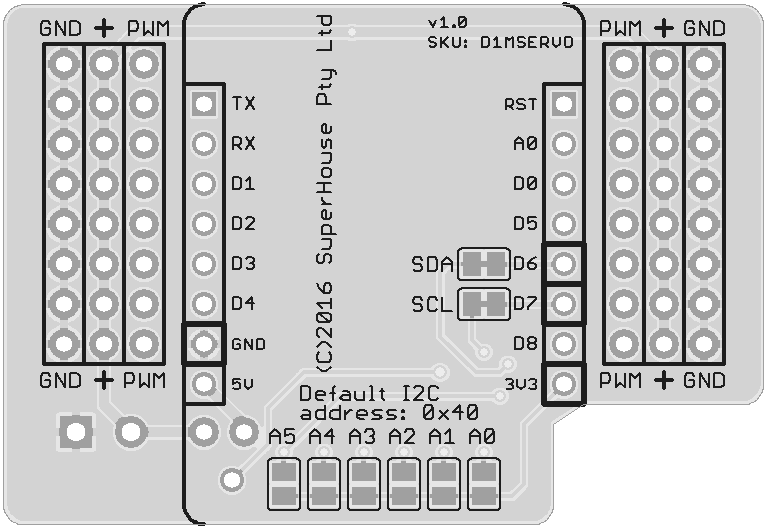
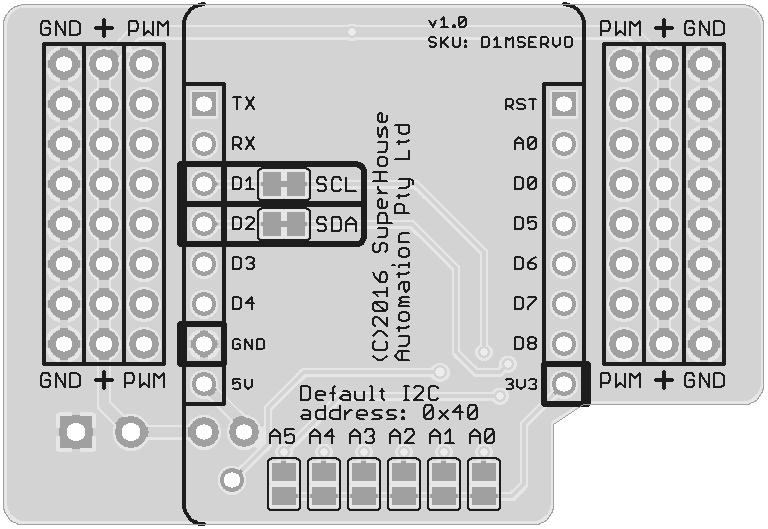
Fixed silkscreen and preview images to reflect updated SCL and SDA pin assignments

diff --git a/README.md b/README.md
@@ -20,7 +20,7 @@ Features:
  * OE (active low Output Enable) broken out for manual connection if required.
  * Power LED to show when servo power is available.
 
-![Oblique view](https://raw.githubusercontent.com/SuperHouse/D1MSERVO/master/images/D1MSERVO-oblique-v1_0.png)
+![Oblique view](https://raw.githubusercontent.com/SuperHouse/D1MSERVO/master/images/D1MSERVO-oblique-v1_0.jpg)
 
 ![Top view](https://raw.githubusercontent.com/SuperHouse/D1MSERVO/master/images/D1MSERVO-top-v1_0.png)
 
